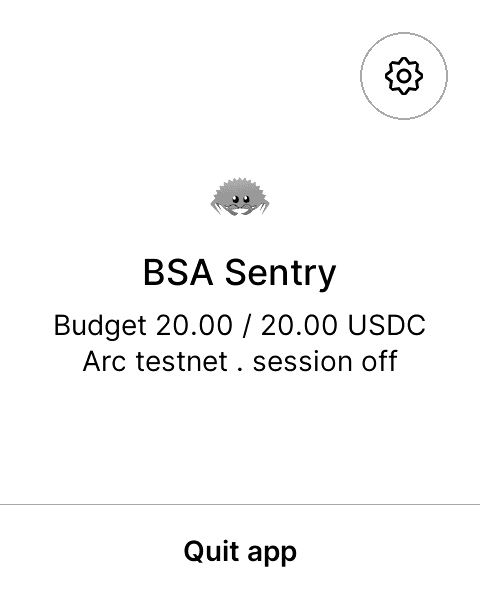
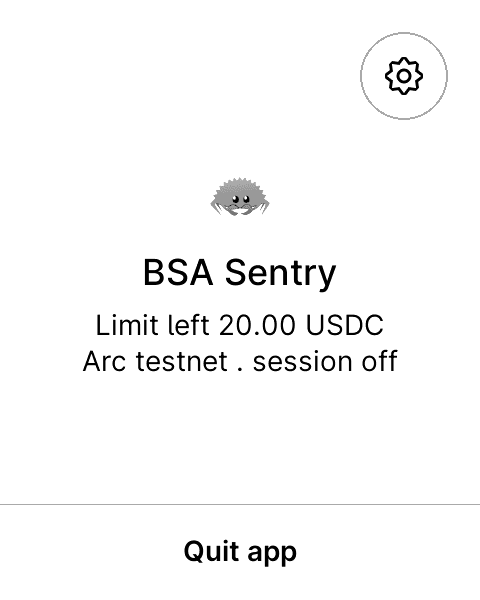
device, web: the home screen says "Limit left", not "Budget": it is a rule, not the wallet balance

Changed region(s): [[0.0938, 0.51, 0.875, 0.57]]

diff --git a/test/speculos/menu.test.ts b/test/speculos/menu.test.ts
@@ -43,24 +43,24 @@ beforeAll(() => restart(true));
 describe('the home screen', () => {
   beforeEach(async () => { await install(); await goHome(); });
 
-  it('shows the budget, the chain and token, and the session state', async () => {
+  it('shows the limit left, the chain and token, and the session state', async () => {
     await setSession(false);
     await goHome();
     const t = await screenText();
     expect(t).toMatch(/BSA Sentry/);
-    expect(t).toMatch(/20(\.00)? \/ 20(\.00)? USDC/);
+    expect(t).toMatch(/Limit left 20(\.00)? USDC/);
     expect(t).toMatch(/Arc testnet/);
     expect(t).toMatch(/session off/i);
     await screenshot('15-home-with-rules');
   });
 
-  it('updates after a payment: remaining budget and the last payment', async () => {
+  it('updates after a payment: the limit left and the last payment', async () => {
     await setSession(true);
     const data = payPayload({ chainId: 5042002n, token: TOKEN, to: CAFE, value: 3n * USDC, hint: 'Cafe Sat', nonce: `0x${'71'.repeat(32)}` });
     expect((await apdu(Uint8Array.from([0xe0, INS.PAY, 0, 0, data.length, ...data]))).sw).toBe(SW.OK);
     await goHome();
     const t = await screenText();
-    expect(t).toMatch(/17(\.00)? \/ 20(\.00)? USDC/);
+    expect(t).toMatch(/Limit left 17(\.00)? USDC/);
     expect(t).toMatch(/Cafe Sat 3/);
     expect(t).toMatch(/session on/i);
     await screenshot('16-home-after-coffee');

diff --git a/apps/web/src/pages/Dashboard.tsx b/apps/web/src/pages/Dashboard.tsx
@@ -67,7 +67,7 @@ export function Dashboard({ bsa }: { bsa: Bsa }) {
     lines: p?.active
       ? [
           ...(held ? [`Agent: ${held.delegation.agentName}`] : []),
-          `Budget ${cents(left)} / ${cents(p.budget)} USDC`,
+          `Limit left ${cents(left)} USDC`,
           ...(d!.lastPayment ? [`Last: ${d!.lastPayment.label} ${usdc(d!.lastPayment.value)} USDC`] : []),
           `Arc testnet . session ${armed ? 'on' : 'off'}`,
         ]

diff --git a/device-app/app/src/home.rs b/device-app/app/src/home.rs
@@ -82,13 +82,13 @@ fn s(strings: &mut Vec<CString>, text: &str) -> *const c_char {
     strings.last().unwrap().as_ptr()
 }
 
-/// "17.00": the home screen shows the budget with cents, like a bank balance.
+/// "17.00": the home screen shows the limit left with cents.
 fn usdc2(units: u64) -> String {
     format!("{}.{:02}", units / 1_000_000, (units % 1_000_000) / 10_000)
 }
 
 /// At most four short lines: NBGL wraps anything longer than ~28 characters, and a fifth line
-/// pushes the text into the "Quit app" bar. The token is on the budget line, so the last line
+/// pushes the text into the "Quit app" bar. The token is on the limit line, so the last line
 /// only needs the network.
 fn tagline(policy: &bsa_sentry_core::Policy, counters: &Counters, last: (u64, &[u8]), armed: bool, agent_name: Option<String>) -> String {
     let status = format!("{} . session {}", fmt::chain_name(policy.chain_id), if armed { "on" } else { "off" });
@@ -100,7 +100,9 @@ fn tagline(policy: &bsa_sentry_core::Policy, counters: &Counters, last: (u64, &[
     if let Some(name) = agent_name {
         out.push_str(&format!("Agent: {}\n", fmt::clip(&name, 18)));
     }
-    out.push_str(&format!("Budget {} / {} USDC\n", usdc2(left), usdc2(policy.budget)));
+    // What the agent may still spend before the Flex asks you: a rule, not the wallet balance
+    // (the Flex cannot see the chain), so it says "limit", not "budget".
+    out.push_str(&format!("Limit left {} USDC\n", usdc2(left)));
     if last.0 > 0 {
         out.push_str(&format!("Last: {} {}\n", fmt::clip(&fmt::untrusted_text(last.1), 10), fmt::amount_usdc(last.0)));
     }
